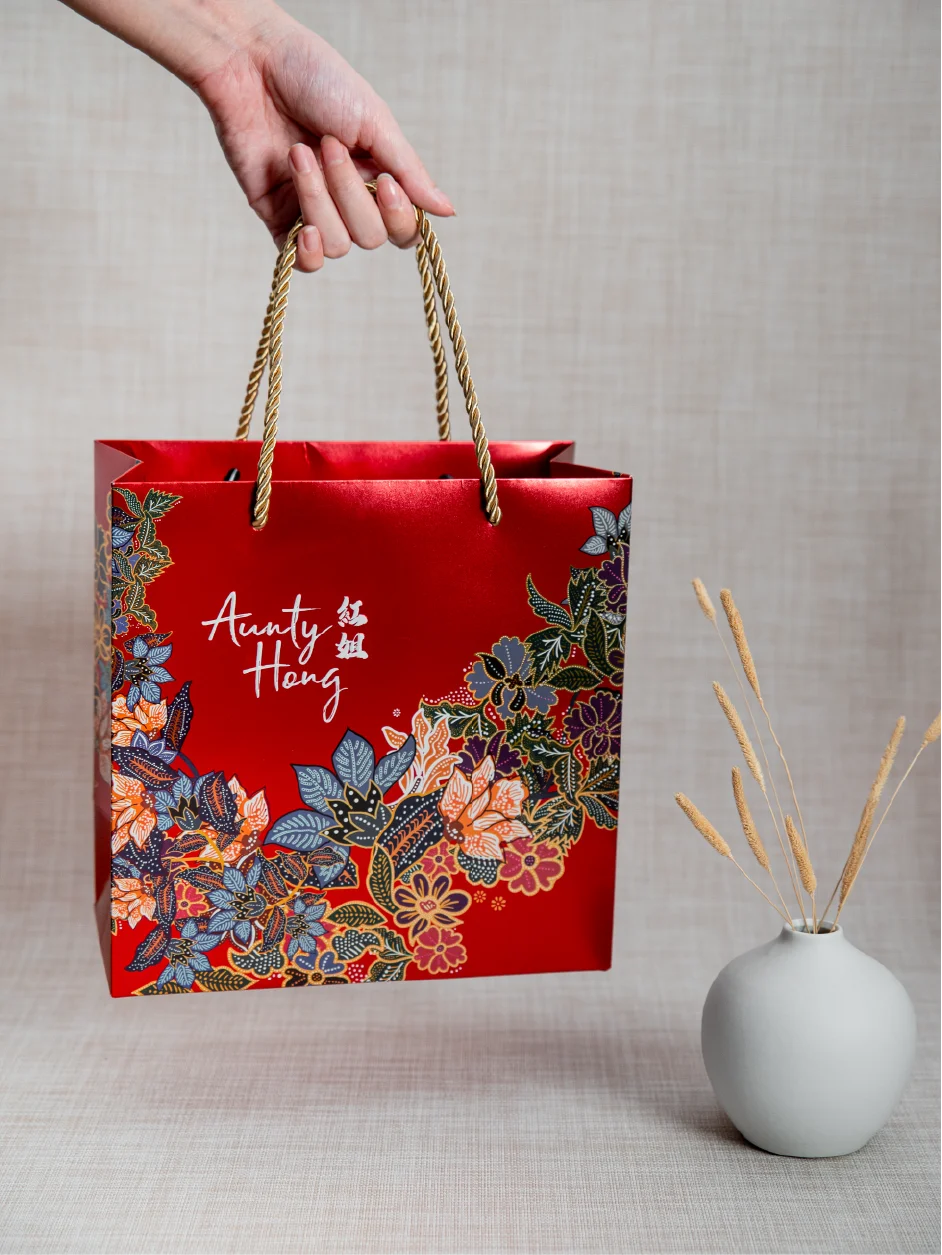
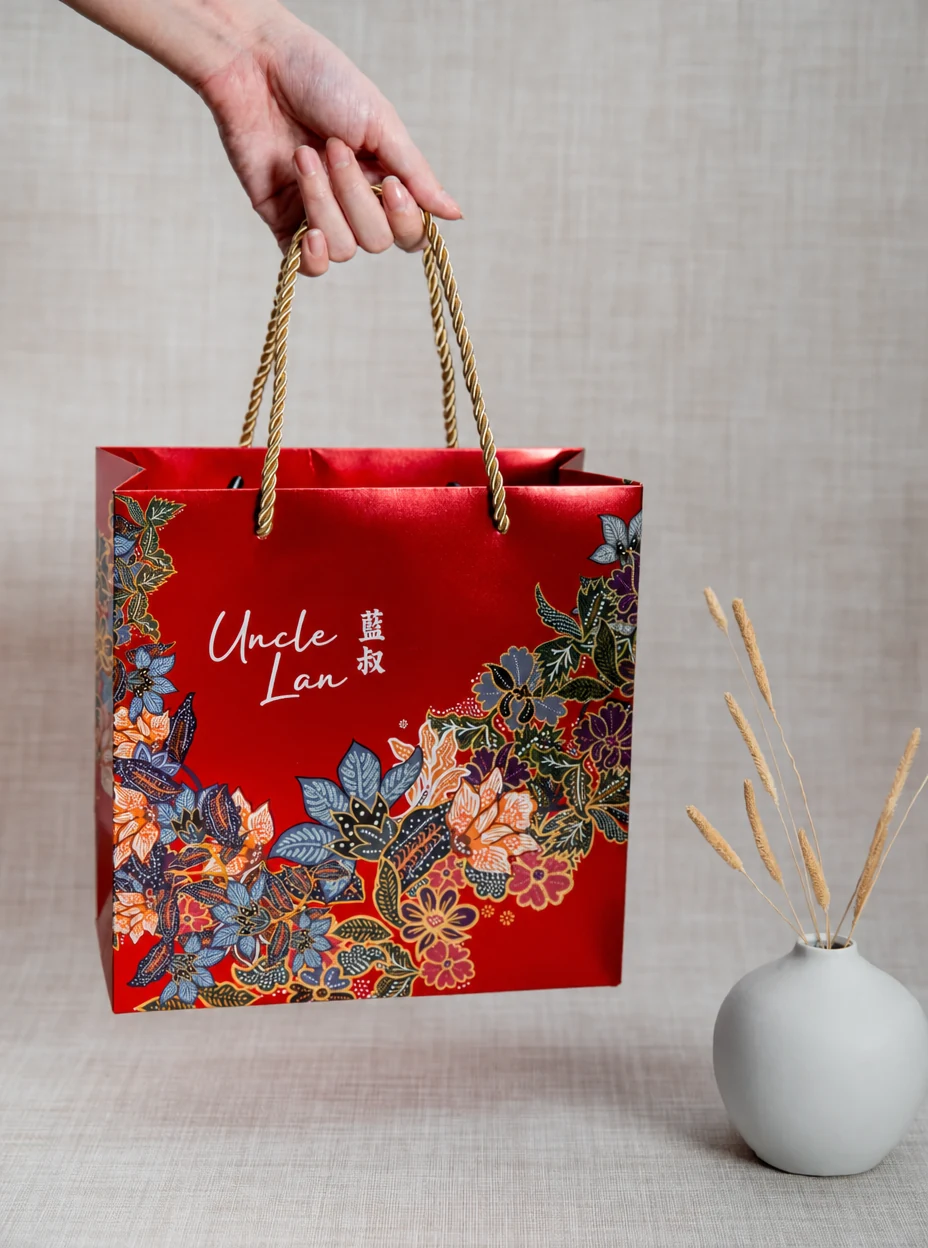
Complete Uncle Lan photo swap for remaining 3 product SKUs
tom-yum-goong-cashews, traditional-shrimp-keropok, white-peach-oolong-tea
now use local /products webps; IMAGE_OVERRIDES fully cleared.

diff --git a/lib/catalog.ts b/lib/catalog.ts
@@ -40,11 +40,7 @@ export type ProductWrite = Partial<Product> & {
   options?: AdditionalField[];
 };
 
-const IMAGE_OVERRIDES: Record<string, string> = {
-  // Pending OpenAI batch SKUs still on Squarespace until Studio delivers.
-  "tom-yum-goong-cashews":
-    "https://images.squarespace-cdn.com/content/v1/5fd98b8d82917438944c7944/1665729590039-MTTGORAKZP5T1MZAY5EM/_5D_7256-Edit.jpg",
-};
+const IMAGE_OVERRIDES: Record<string, string> = {};
 
 const images = imagesJson as { products: Record<string, string>; named: Record<string, string> };
 
